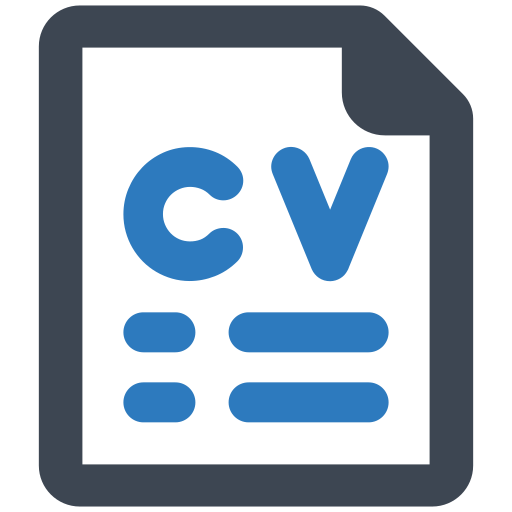
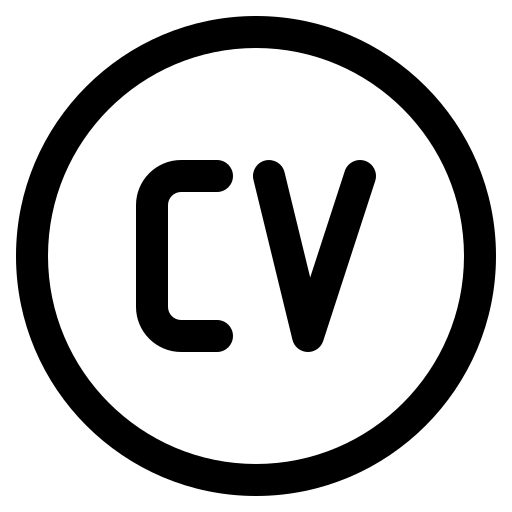
SubhanAllah

diff --git a/styles.css b/styles.css
@@ -306,23 +306,49 @@ nav {
 
   .CV {
     position: fixed;
-    right: 1.075%; /* Adjust right position as needed */
-    bottom: 10%;
+    right: 0.75%; /* Adjust right position as needed */
+    bottom: 11%;
     cursor: pointer;
     z-index: 2;
-    animation: highlightBlink 2s infinite; /* 2s duration, infinite repetition */
+    animation: rotateHighlight 4s linear infinite;
+    display: flex;  
+    /* animation: rotateCircle 3s linear infinite; */
+     /* 2s duration, infinite repetition */
+}
+
+.CVicon{
+  width:2.5rem;
+  height:2.5rem;
+  display: block;
 }
 
 
 
-@keyframes highlightBlink {
-  0%, 100% {
-      background-color: transparent; 
+/* @keyframes rotateCircle {
+  0% {
+      transform: rotate(0deg);
+      
+  }
+  100% {
+      transform: rotate(360deg);
+  }
+} */
+
+@keyframes rotateHighlight {
+  0% {
+      transform: rotate(0deg);
+      background-color:chartreuse;
   }
   50% {
-      background-color: greenyellow; 
+      transform: rotate(180deg);
+      background-color:transparent;
+  }
+  100% {
+      transform: rotate(360deg);
+      background-color: chartreuse;
   }
 }
+
 
   .scroll-up {
     position: fixed;

diff --git a/index.html b/index.html
@@ -220,6 +220,7 @@
     </div>
 
     <!-- Click to Download CV-->
+  
     <i class="CV" id="CV">
       <img src="images/CVicon.png" class="socicon CVicon" alt="CV" onclick="openCV()">
   </i>
